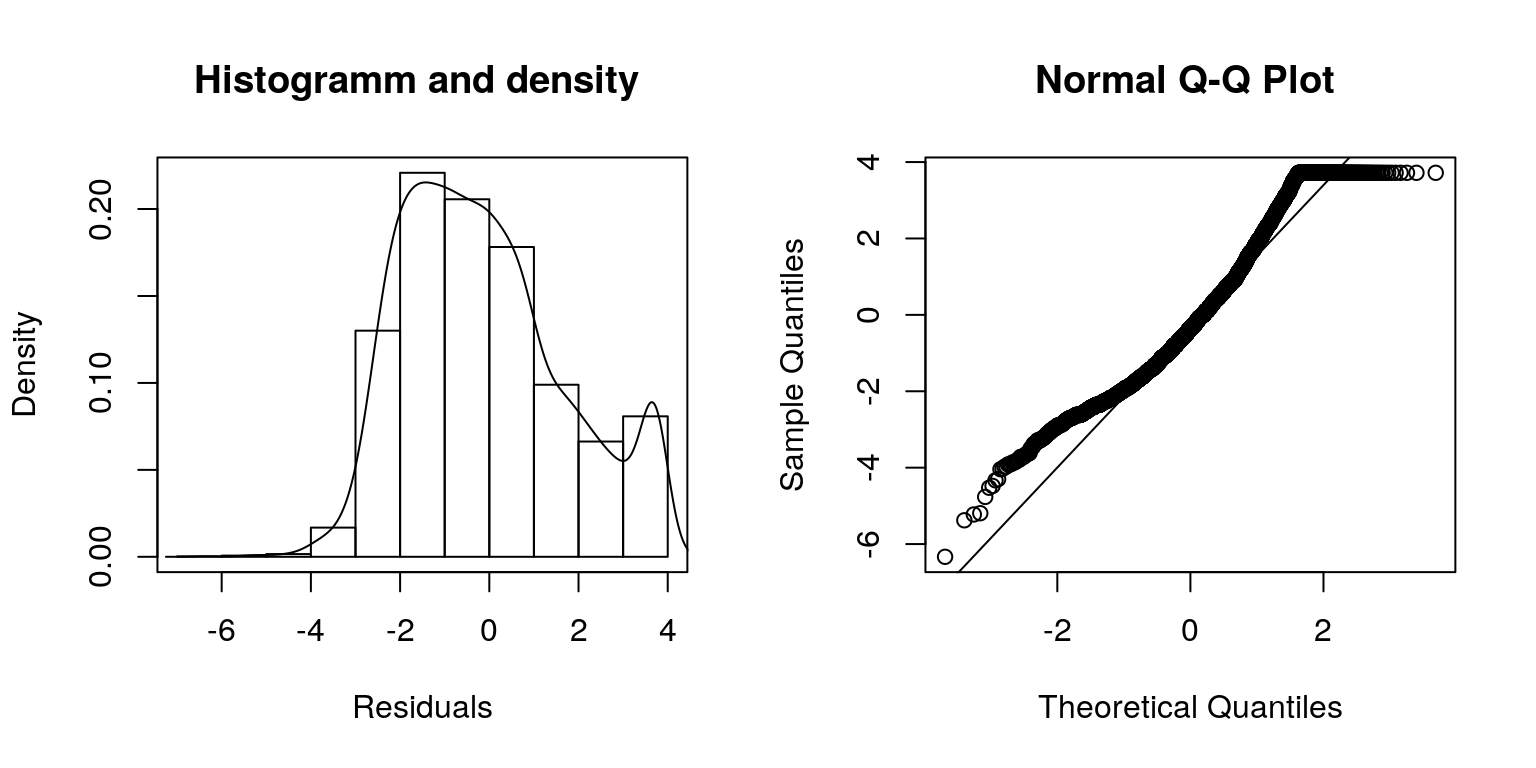
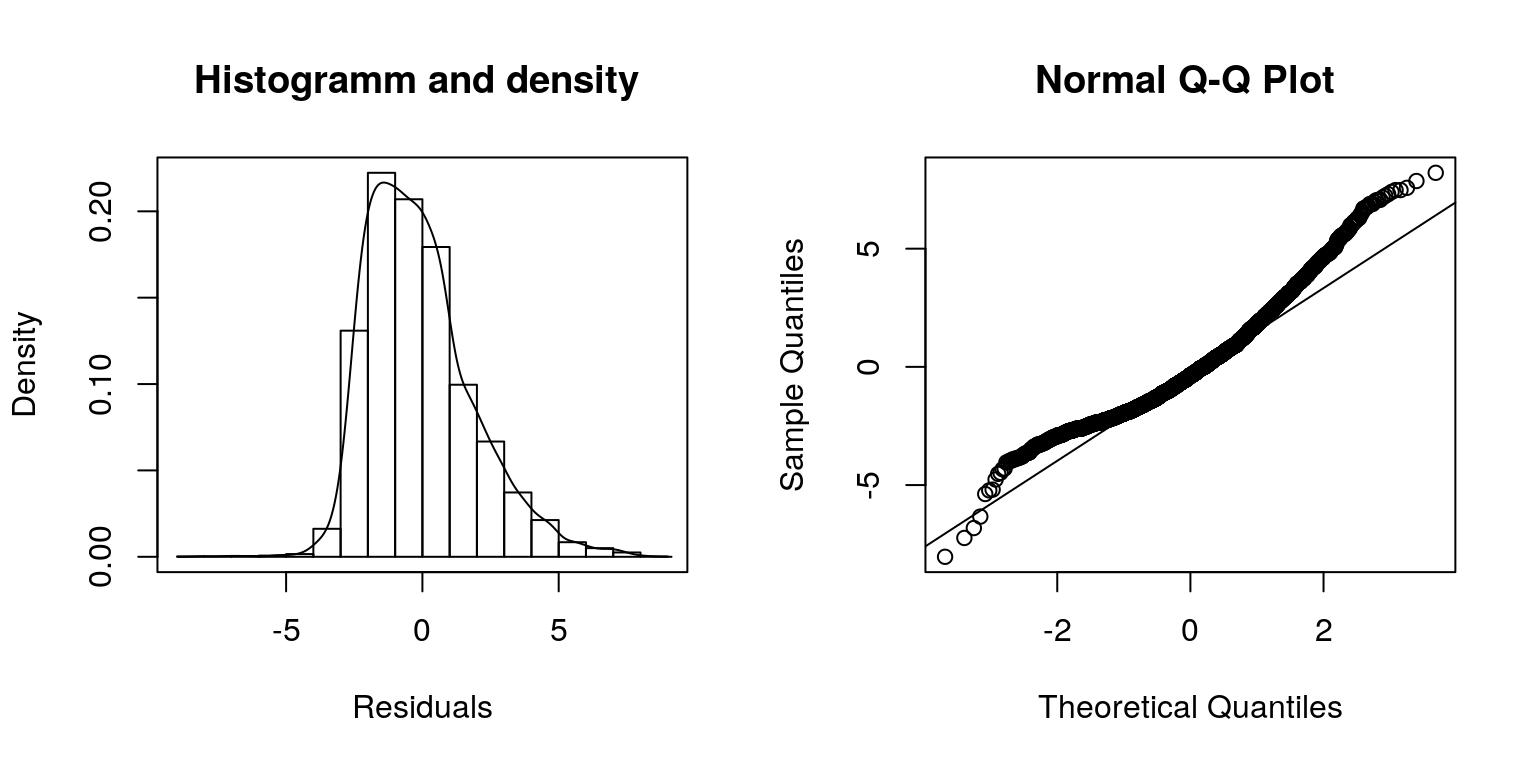
git-svn-id: svn://svn.r-forge.r-project.org/svnroot/bayesr@3076 edb9625f-4e0d-4859-8d74-9fd3b1da38cb

diff --git a/www/articles/glm.html b/www/articles/glm.html
@@ -312,6 +312,8 @@ b1 &lt;-<span class="st"> </span><span class="kw"><a href="../reference/bamlss.h
 ## ---</code></pre>
 <p>which shows “significant” effects for all covariates, since there are no zeros within the 95% credible intervals. We can use randomized quantile residuals <span class="citation">(Dunn and Smyth 1996)</span> to evaluate how good the models fits to the data.</p>
 <div class="sourceCode"><pre class="sourceCode r"><code class="sourceCode r"><span class="kw"><a href="https://www.rdocumentation.org/packages/graphics/topics/plot">plot</a></span>(b1, <span class="dt">which =</span> <span class="kw"><a href="https://www.rdocumentation.org/packages/base/topics/c">c</a></span>(<span class="st">"hist-resid"</span>, <span class="st">"qq-resid"</span>))</code></pre></div>
+<pre><code>## Warning in residuals.bamlss(x, ...): non finite quantiles from
+## probabilities, set to NA!</code></pre>
 <p><img src="glm_files/figure-html/unnamed-chunk-18-1.png" width="768" style="display: block; margin: auto;"> Clearly, the plots shows that the model performance is not very good at the tails of the data, this might be caused by the large amount of zero counts in the data, which is not accounted for using the Poisson distribution.</p>
 <p>Therefore, another possible candidate for the response distribution is the zero-inflated negative binomial distribution, which is implemented in the <em>gamlss</em> package <span class="citation">(Stasinopoulos and Rigby 2018)</span> in the function <code>ZINBI</code>. The family has 3 parameters <code>mu</code>, <code>sigma</code> and <code>nu</code>. In this example we model distributional parameters <code>mu</code> and <code>sigma</code> in terms of covariates by setting up the model formula with</p>
 <div class="sourceCode"><pre class="sourceCode r"><code class="sourceCode r">f &lt;-<span class="st"> </span><span class="kw"><a href="https://www.rdocumentation.org/packages/base/topics/list">list</a></span>(
